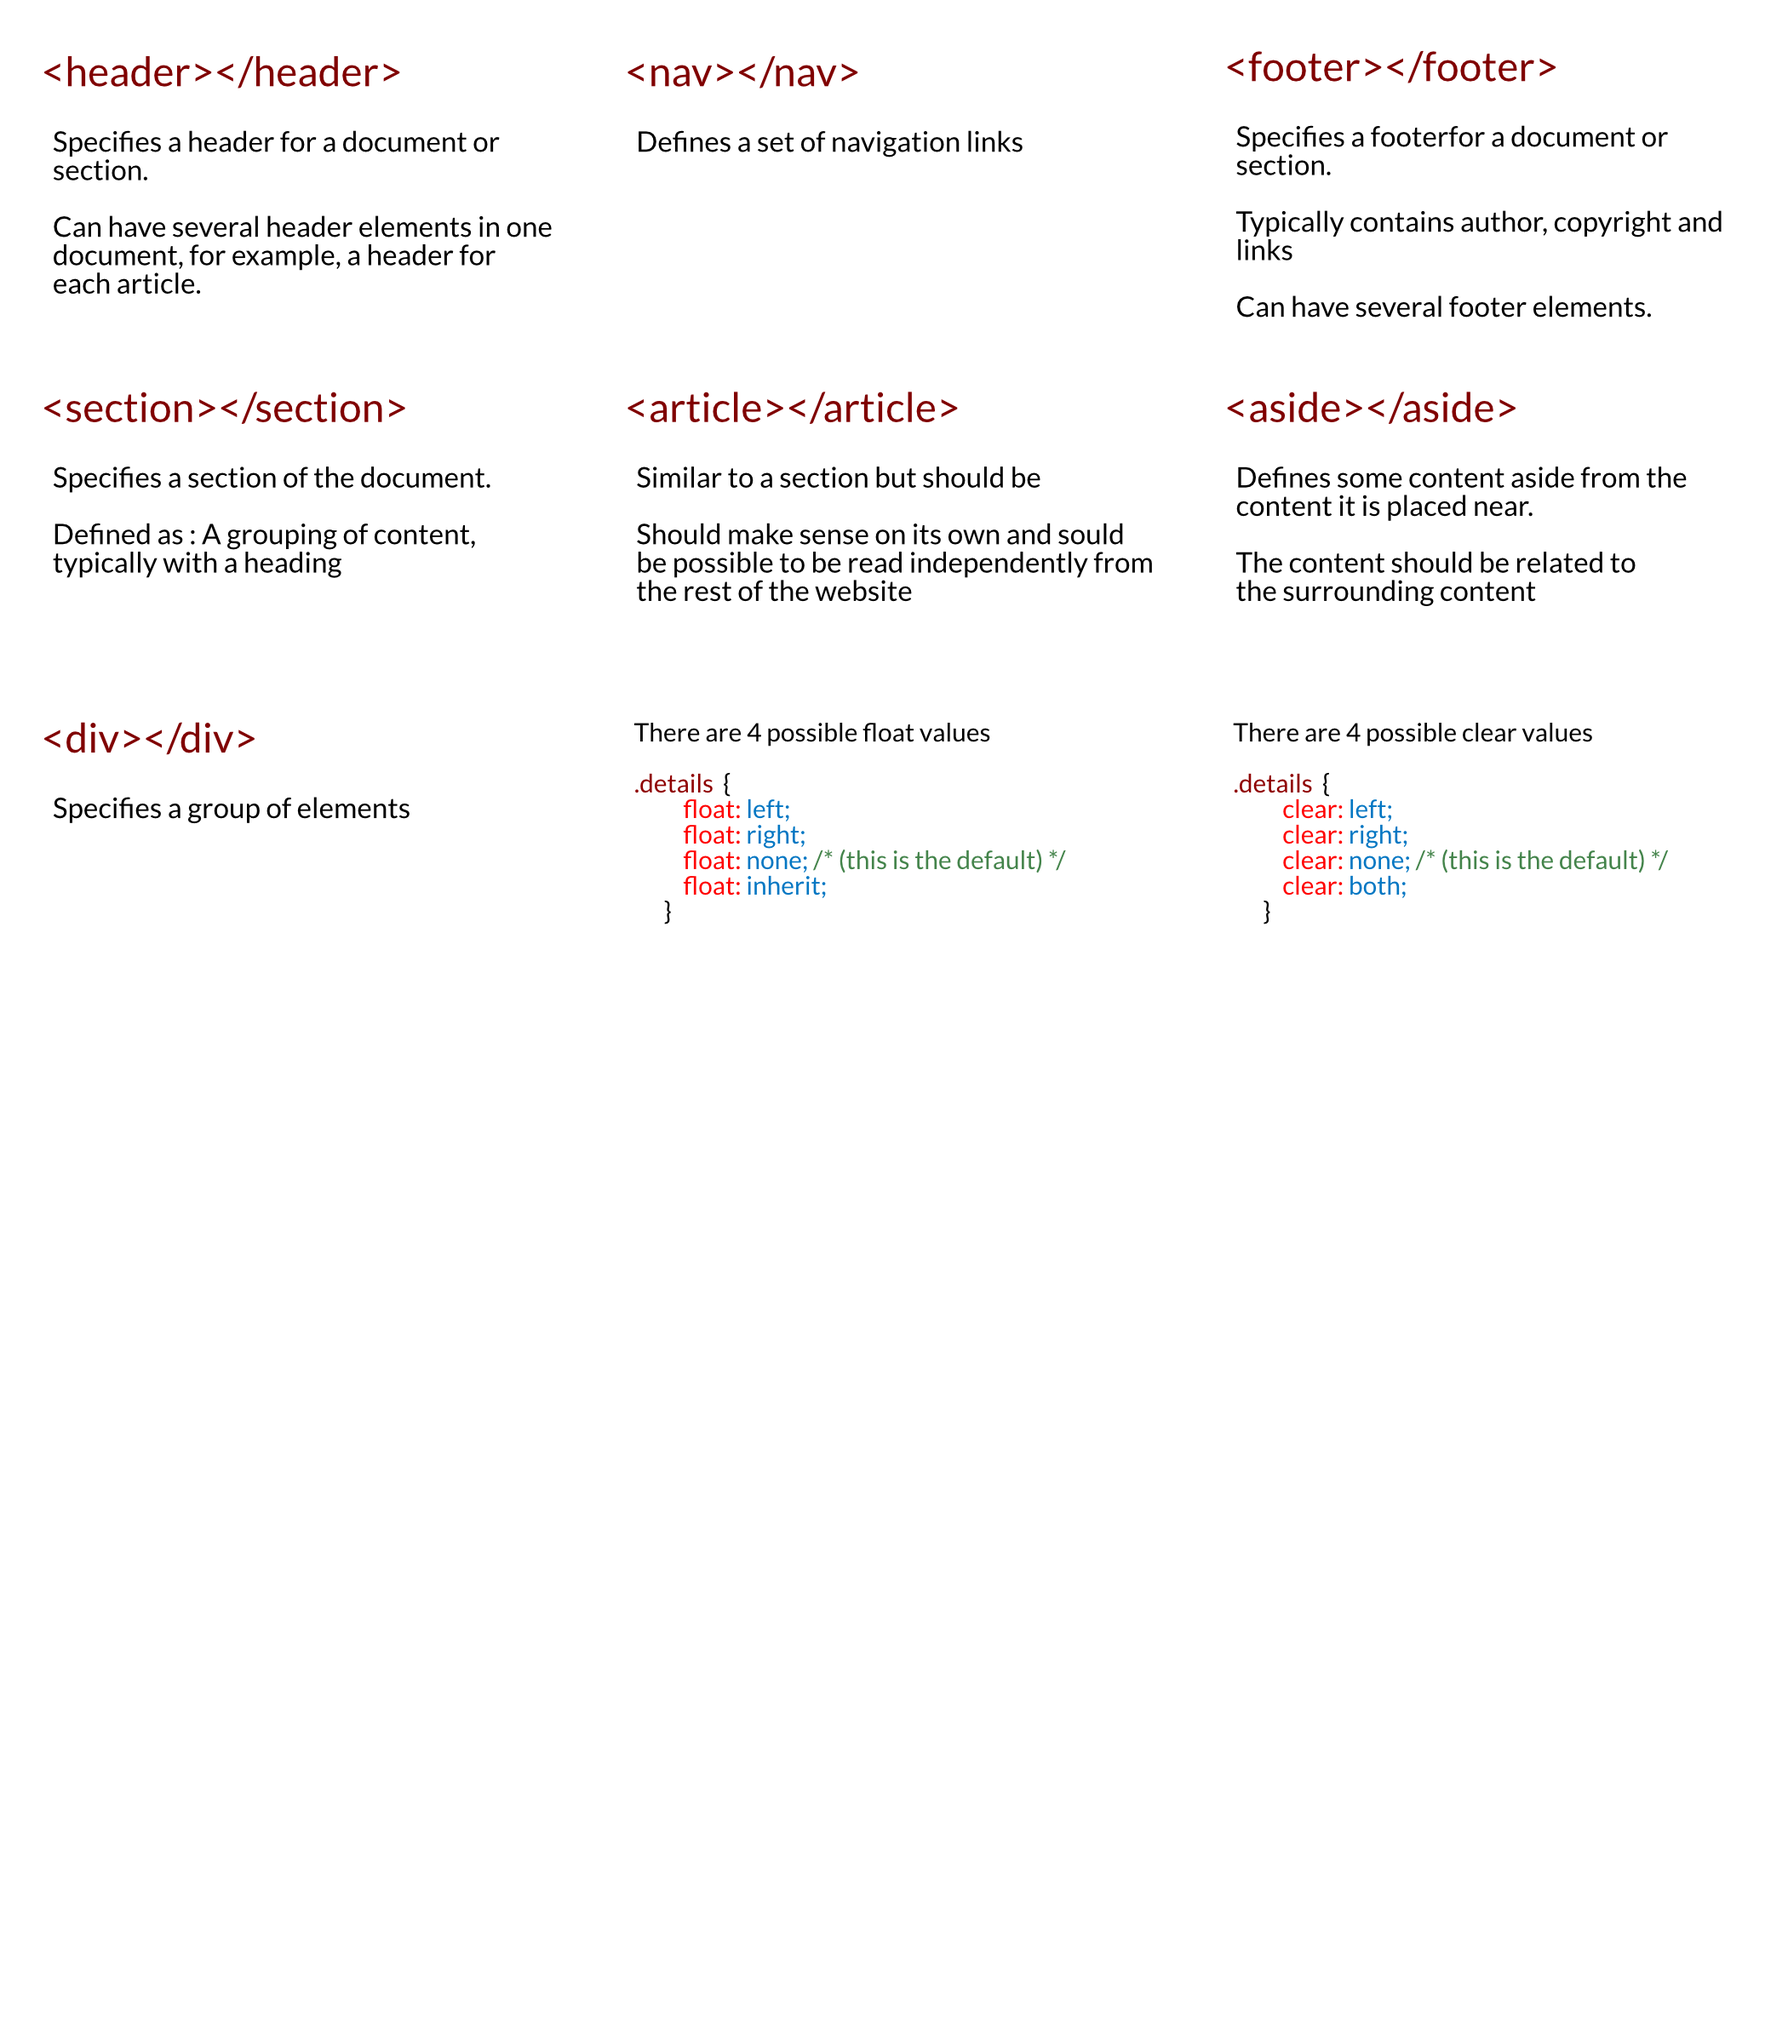
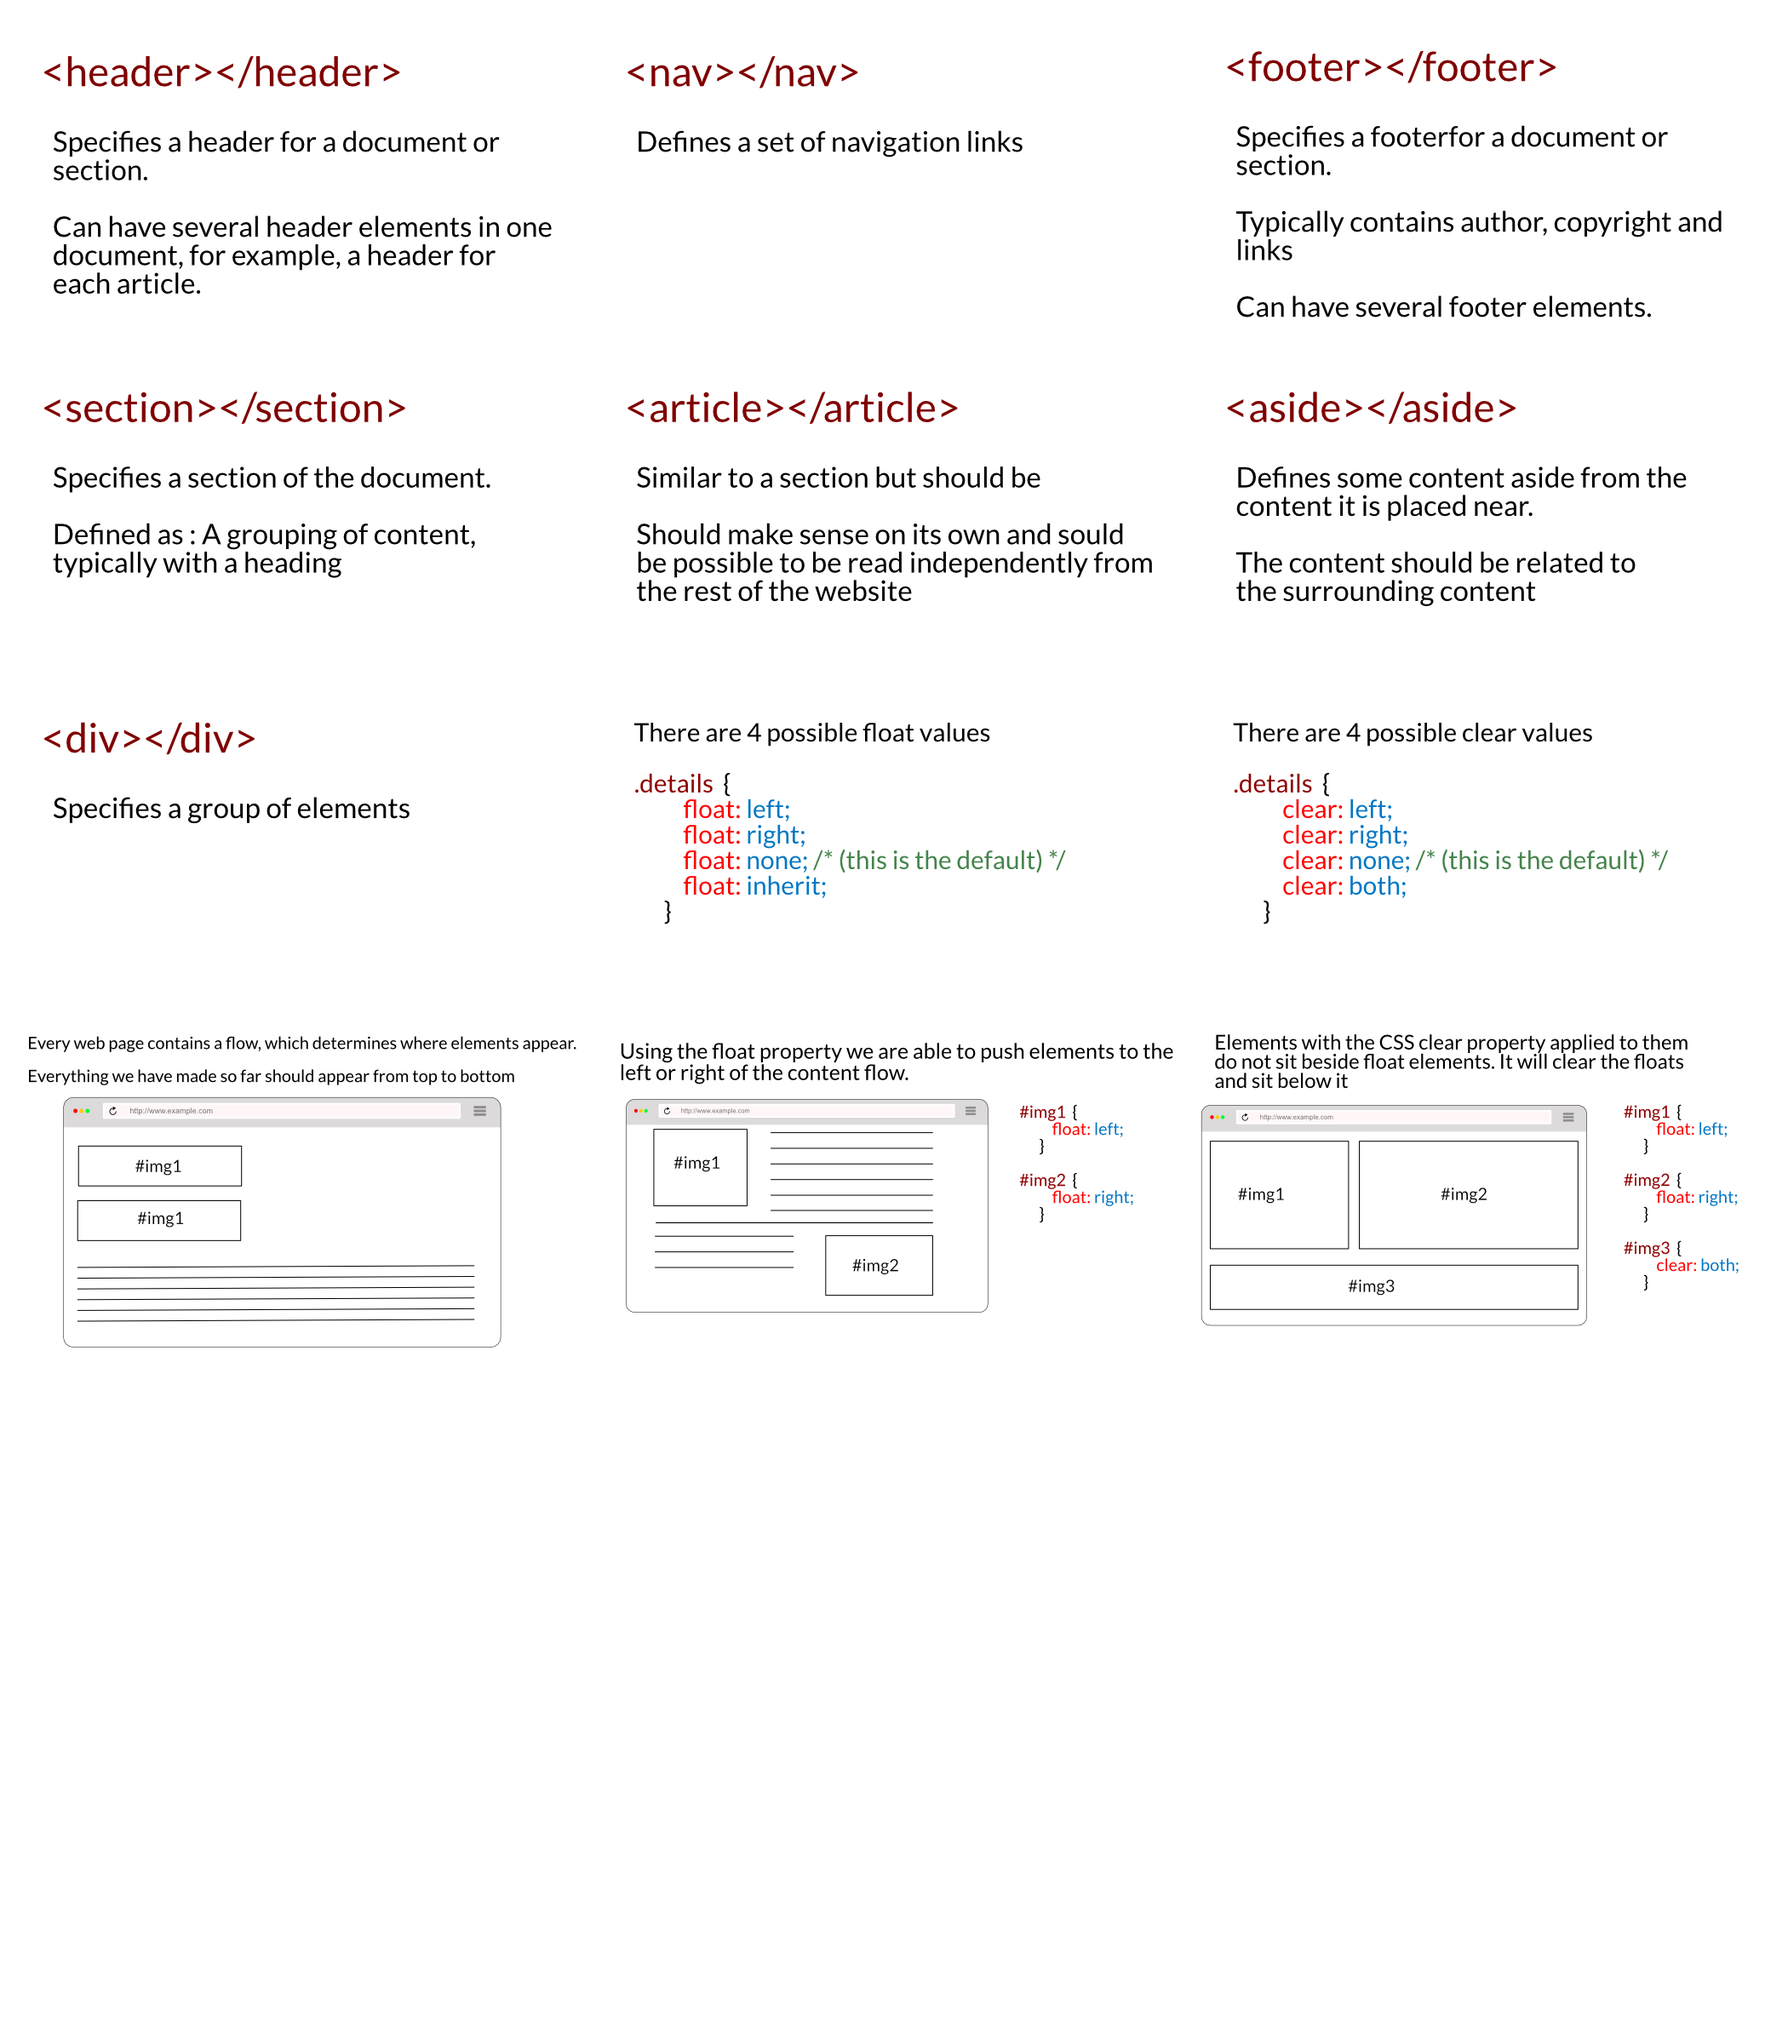
feat add more to class 4 and start class 5

diff --git a/class05.html b/class05.html
@@ -28,6 +28,8 @@
                 <div class="sub-title"></div>
                 <h1>Learning Objectives</h1>
                 <ul class="list">
+                    <li>Review floats & clears</li>
+                    <li>Practice CSS Layouts</li>
                 </ul>
             </section>
 
@@ -35,8 +37,26 @@
                 <div class="sub-title"></div>
                 <h1>AGENDA</h1>
                 <ul class="list">
+                    <li>Review Floats and Clearing</li>
+                    <li>Float and Collapsing Parent Issue</li>
+                    <li>Look at Display Inline and Block</li>
+                    <li>Code along Float and Display examples</li>
+                    <li>Lab Time: Relaxr page 2 - 2 Column Layout</li>
                 </ul>
             </section>
+
+            <section class="detail-slide">
+                <div class="sub-title">Review Questions</div>
+                <ul class="list">
+                    <li class="fragment">What are the 4 float values?</li>
+                    <li class="fragment">What are the 4 clear values?</li>
+                    <li class="fragment">How many semantic tags can you name?</li>
+                </ul>
+            </section>
+
+            <section class="topic" data-background-color="#1EC9C6">
+                    <h1>Floats & Clears</h1>
+                </section>
 
             <section class="topic" data-background-color="black">
                 <h1>Wrap up</h1>
@@ -48,12 +68,17 @@
                 </ul>
             </section>
 
+            <section class="topic" data-background-color="#FFD800">
+                <h1>Q & A</h1>
+            </section>
 
             <section class="detail-slide">
                 <div class="sub-title">Next Class</div>
-                <h4> </h4>
+                <h4>Layout lab</h4>
                 <ul class="list">
-                </ul>
+                        <li>Build confidence with complex layouts</li>
+                        <li>Build a website from a design layout</li>
+                    </ul>
             </section>
 
         </div>

diff --git a/class04.html b/class04.html
@@ -111,12 +111,12 @@
 
             <section class="detail-slide">
                 <div class="sub-title">Floating sections</div>
-                <!-- image - Float example -->
+                <img src="assets/class04/float-01.png">
             </section>
 
             <section class="detail-slide">
                 <div class="sub-title">Floating sections</div>
-                <!-- image - Float example -->
+                <img src="assets/class04/float-02.png">
             </section>
 
             <section class="detail-slide">
@@ -127,17 +127,12 @@
 
             <section class="detail-slide">
                 <div class="sub-title">Clearing floats</div>
-                <!-- image - Float example -->
+                <img src="assets/class04/clear-01.png">
             </section>
 
             <section class="detail-slide">
                 <div class="sub-title">Clear values</div>
                 <img src="assets/class04/clear-values.png">
-            </section>
-
-            <section class="detail-slide">
-                <div class="sub-title">Float Example</div>
-                <!-- image - Float example -->
             </section>
 
             <section class="detail-slide">
@@ -182,11 +177,12 @@
 
             <section class="detail-slide">
                 <div class="sub-title">Next Class</div>
-                <h4> </h4>
+                <h4>Layout Lab</h4>
                 <ul class="list">
+                    <li>Review floats & clears</li>
+                    <li>Practice CSS Layouts</li>
                 </ul>
             </section>
-
         </div>
     </div>
 
